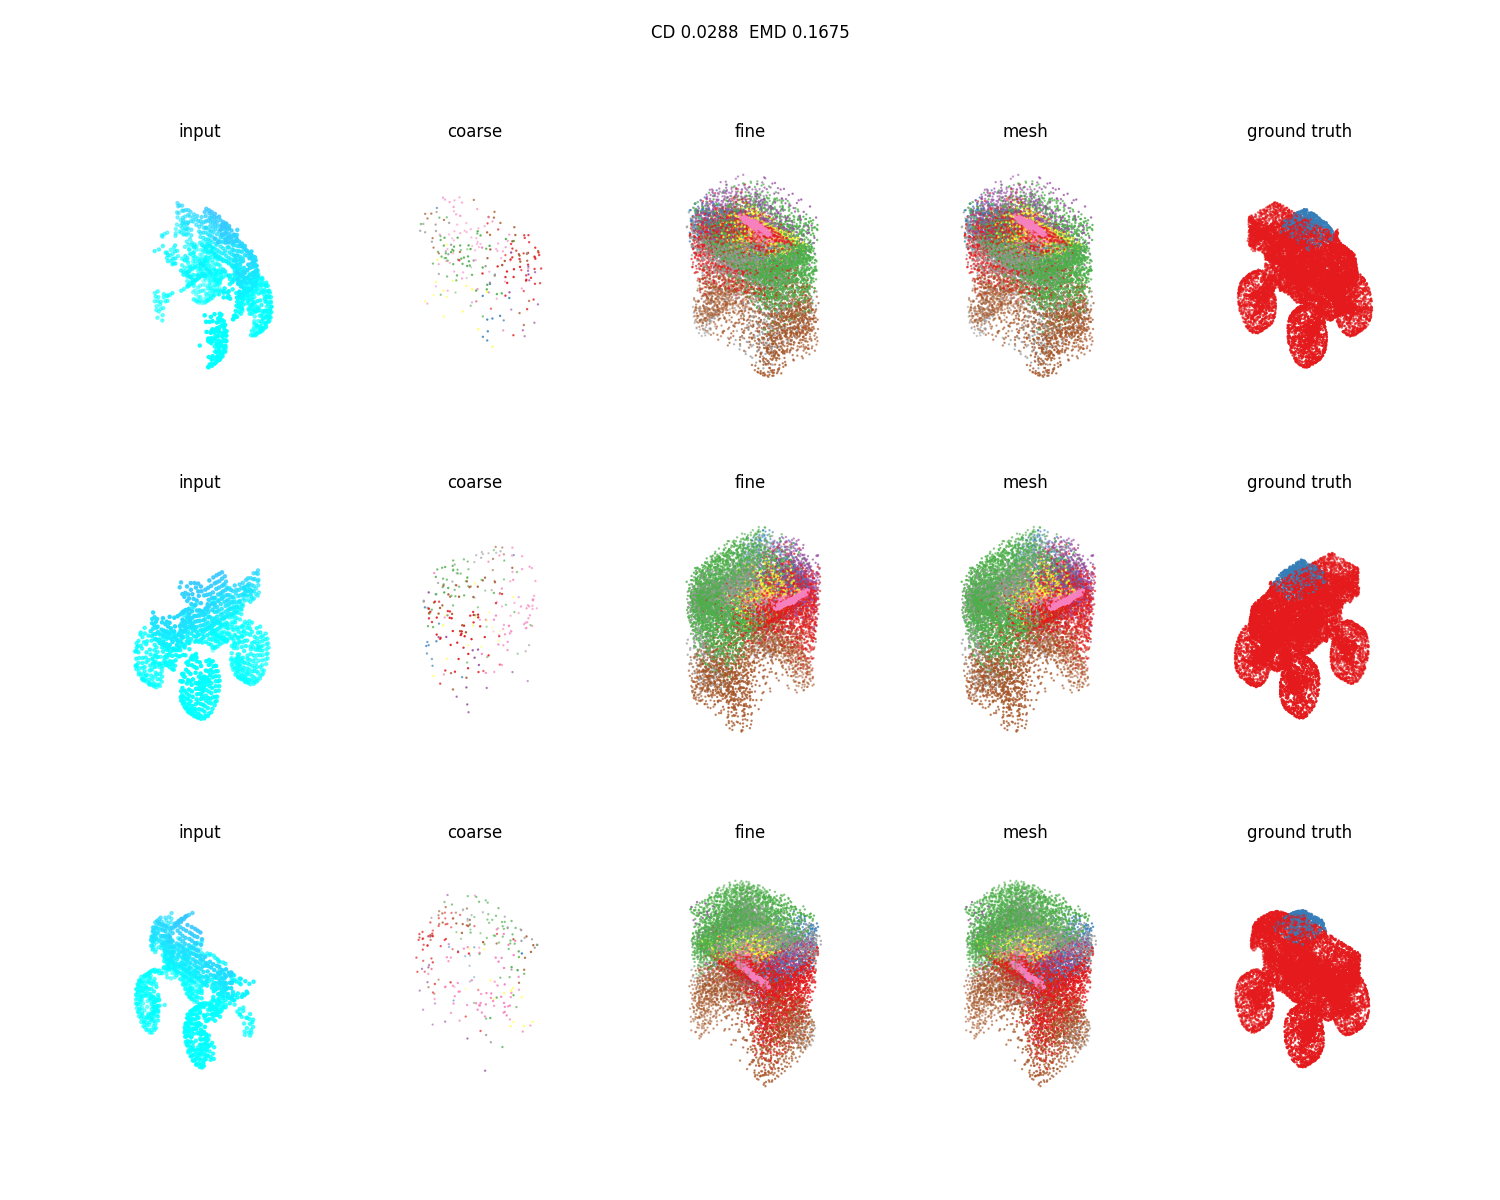
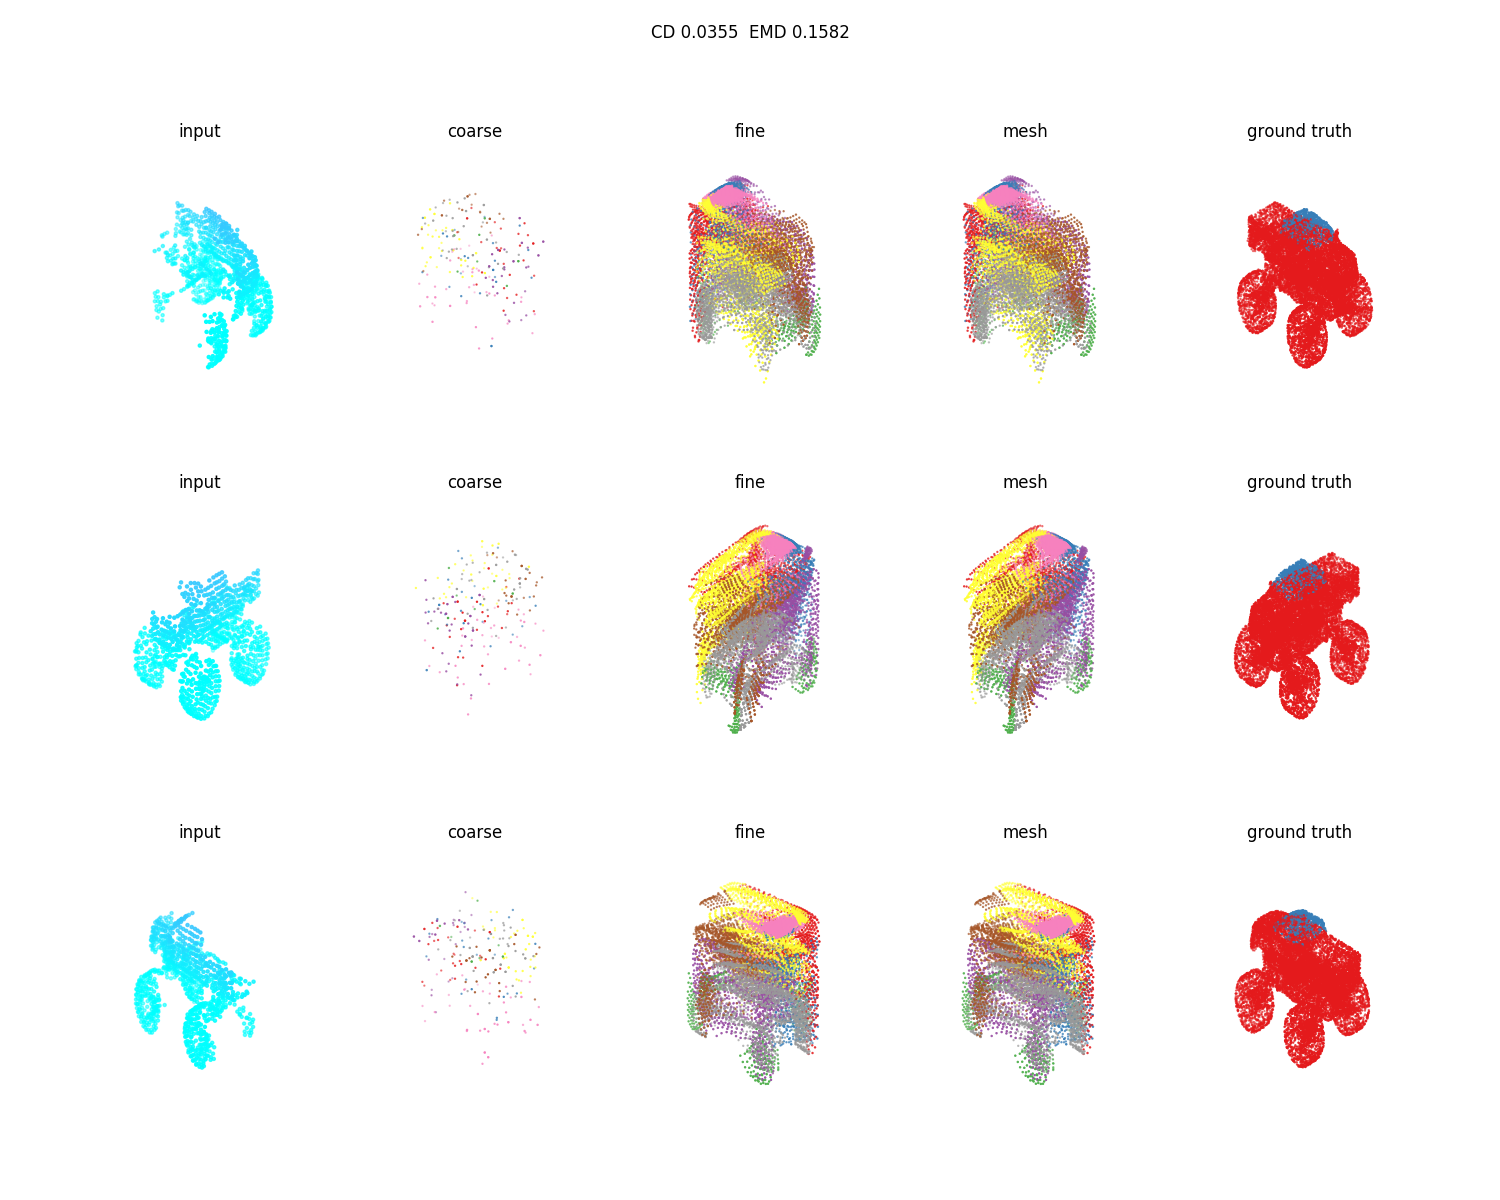
add plots

diff --git a/models/pcn_reg.py b/models/pcn_reg.py
@@ -16,13 +16,13 @@ class Model:
         self.grid_scale = 0.05
         self.channels = num_channel
         self.num_fine = self.grid_size ** 2 * self.num_coarse
-        inputs, gt = self.canon_pose(gt, inputs, npts)
-        self.features = self.create_encoder(inputs, npts)
+        inputs_can, gt_can = self.canon_pose(gt, inputs, npts)
+        self.features = self.create_encoder(inputs_can, npts)
         self.coarse, self.fine, self.mesh, self.entropy = self.create_decoder(self.features)
         self.loss, self.update = self.create_loss(self.coarse, self.fine, gt, alpha, self.entropy)
         self.outputs1 = self.coarse
         self.outputs2 = self.fine
-        self.visualize_ops = [tf.split(inputs[0], npts, axis=0), self.coarse, self.mesh, self.fine, gt]
+        self.visualize_ops = [tf.split(inputs[0], npts, axis=0), self.coarse, gt_can, self.fine, gt]
         self.visualize_titles = ['input', 'coarse output', 'meshes', 'fine output', 'ground truth']
 
     def create_encoder(self, inputs, npts):

diff --git a/tf_util.py b/tf_util.py
@@ -37,7 +37,7 @@ def mlp_conv_act(inputs, layer_dims, act_dim=8, bn=None, bn_params=None):
     for i, num_out_channel in enumerate(layer_dims[:-1]):
         inputs = tf.contrib.layers.conv1d(
             inputs, num_out_channel,
-            kernel_size=8,
+            kernel_size=1,
             normalizer_fn=bn,
             normalizer_params=bn_params,
             scope='conv_%d' % i)
